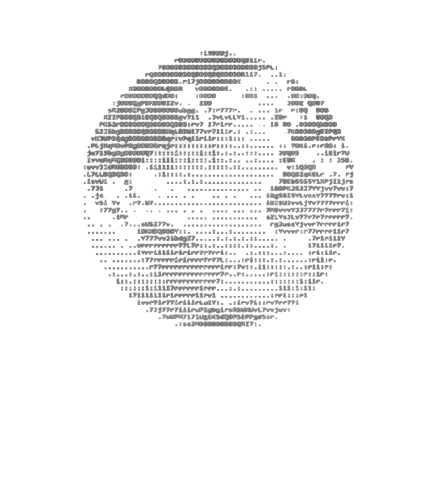
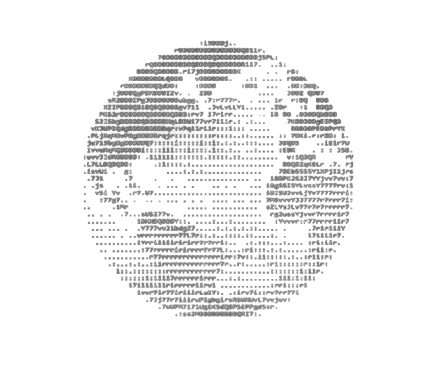
replace placeholder

Changed region(s): [[0.1835, 0.0862, 0.8565, 0.8329], [0.1835, 0.517, 0.2141, 0.5457]]

diff --git a/src/Components/OutputCard.js b/src/Components/OutputCard.js
@@ -9,7 +9,7 @@ const OutputCard = ({ text, imageURLs, loading }) => {
   const [currentImage, setCurrentImage] = useState(0);
   console.log(text);
 
-  const placeHolderImages = [ '/fairy.png', '/butterfly.png', '/fairy.png']
+  const placeHolderImages = [ '/butterfly.png', '/fairy.png', '/globe.png']
   const loadingText = ["Extracting key nouns from text...", "Feeding your words to DALL-E...", "Generating ASCII from images..."]
 
   if (imageURLs.length === 0) {

diff --git a/src/App.css b/src/App.css
@@ -17,7 +17,7 @@
     display: none;
   }
   .title {
-    font-size: 4px !important;
+    font-size: 4.5px !important;
   }
   .mobileBox {
     flex-direction: column !important; /* Stack flex items vertically */
